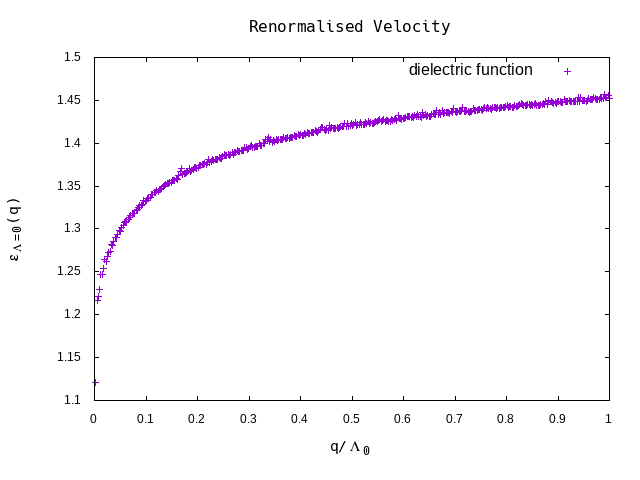
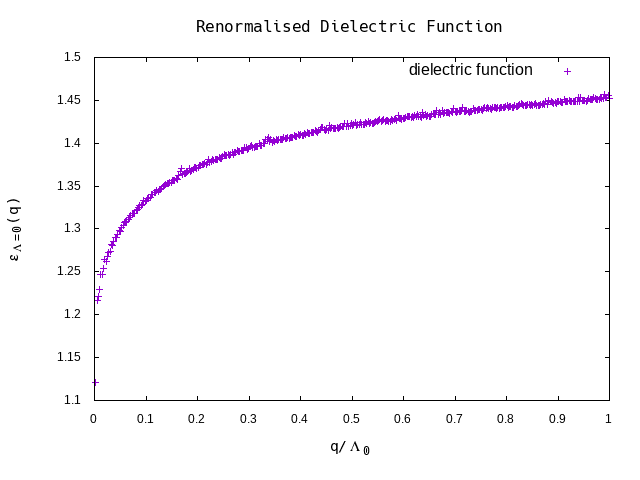
Updated Readme and corrected plots

Changed region(s): [[0.3125, 0.0312, 0.7812, 0.0938]]

diff --git a/README.md b/README.md
@@ -9,14 +9,13 @@ Kopietz](http://dx.doi.org/10.1103/PhysRevB.92.121409).
 ---
 
 ```bash
--.
- |--bauer
- |
- |--coupled2
- |
- |--frequency
- |
- \--non_perturbative.pdf
+.
+├── bauer
+├── coupled2
+├── finite_temp
+├── frequency
+├── non_perturbative.pdf
+└── README.md
 ```
 
 ### Contents
@@ -30,3 +29,18 @@ function.
 
 The pdf file contains the details of the calculations and the
 equations that are used in the codes.
+
+### Results
+---
+
+![](bauer/velocity3d.png)
+![](bauer/dielectric_function3d.png)
+![](bauer/renormalised_velocity.png)
+![](bauer/renormalised_dielectric.png)
+### Bosonic momenta in momentum shell
+![](coupled2/renormalised_velocity.png)
+![](coupled2/renormalised_dielectric.png)
+### Frequency Dependence
+![](frequency/frequency_dependence.png)
+### Temperature Dependence
+![](finite_temp/temperature_dependence.png)
